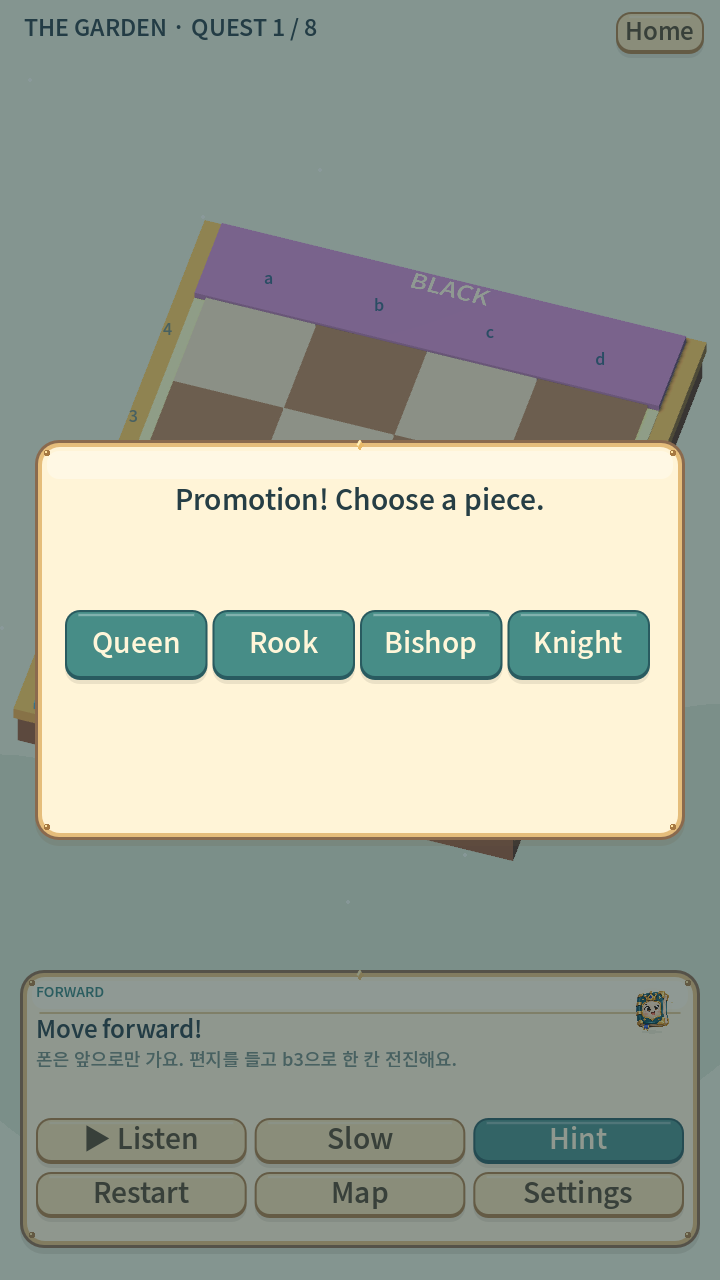
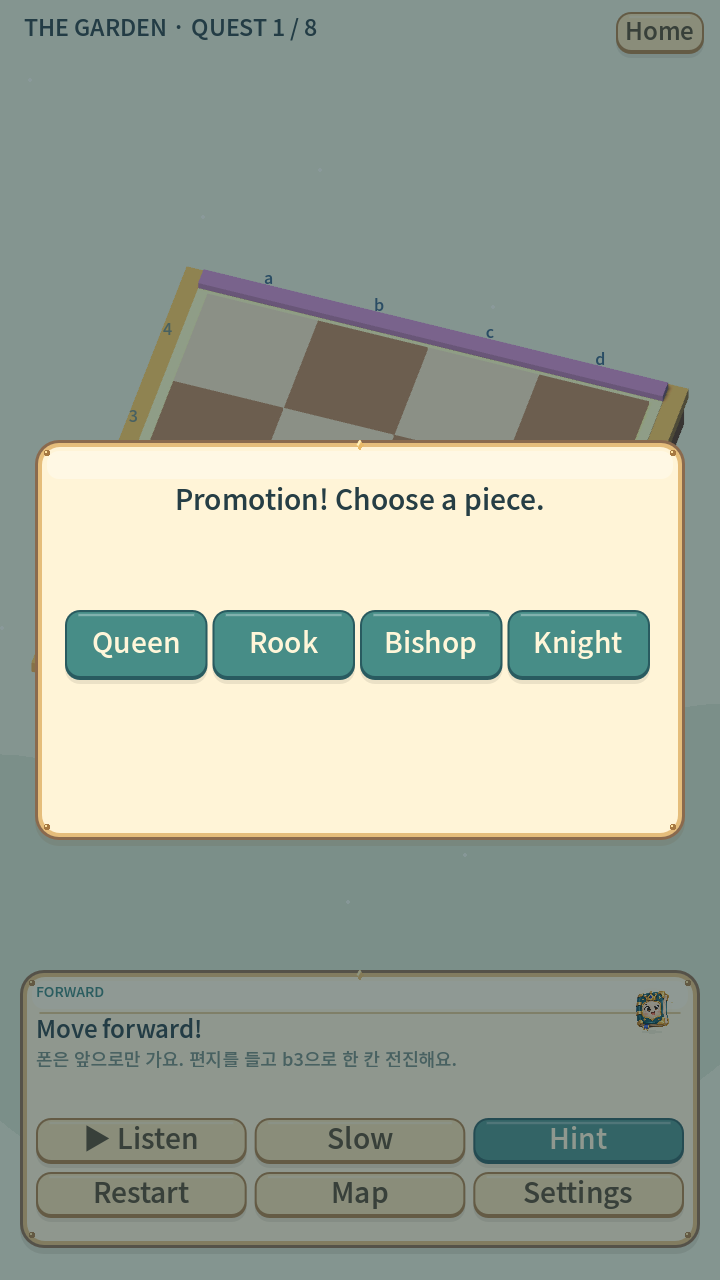
Restore original board dimensions and move team text onto wooden side faces

Changed region(s): [[0.2444, 0.1562, 0.9778, 0.3438], [0.6111, 0.6562, 0.7333, 0.6875], [0.0, 0.5312, 0.0611, 0.5938]]

diff --git a/tools/build_web.py b/tools/build_web.py
@@ -12,7 +12,7 @@ engine=engine[:engine.rfind('export {')]
 html=(d/'index.html').read_text().replace('"serviceWorker":"index.service.worker.js"','"serviceWorker":""')
 html=html.replace('<head>','<head>\n<script src="chess.js"></script>\n<link rel="apple-touch-icon" href="icon-192.png"><meta name="apple-mobile-web-app-capable" content="yes"><meta name="theme-color" content="#367f7b">')
 html=html.replace('</body>','''<script>if('serviceWorker' in navigator)navigator.serviceWorker.register('./sw.js',{updateViaCache:'none'}).then(r=>r.update());</script>
-<a href="guide.html" style="position:fixed;bottom:5px;right:10px;color:#367f7b;font:12px sans-serif">Board lettering · v11.17.11 · Help</a></body>''')
+<a href="guide.html" style="position:fixed;bottom:5px;right:10px;color:#367f7b;font:12px sans-serif">Side lettering · v11.17.12 · Help</a></body>''')
 (d/'index.html').write_text(html)
 manifest={'name':'Chess Quest: The Lost Crown','short_name':'Chess Quest','start_url':'./index.html','scope':'./','id':'./','display':'standalone','orientation':'any','background_color':'#e8efdc','theme_color':'#367f7b','icons':[{'src':f'icon-{s}.png','sizes':f'{s}x{s}','type':'image/png','purpose':'any maskable'} for s in [192,512]]}
 (d/'index.manifest.json').write_text(json.dumps(manifest))

diff --git a/README.md b/README.md
@@ -151,3 +151,7 @@ All modal text is simple English, including story introductions, success, retry,
 ## Printed team names (v11.17.11)
 
 Removed both signs and their mounts. WHITE and BLACK are now depth-tested 3D lettering on the blue and purple board rails, following the board surface. The rails provide space for the lettering outside the coordinates and back-rank characters.
+
+## Original board proportions and side lettering (v11.17.12)
+
+Restored the original plinth and thin colored rails. Team text is no longer on the playing surface: WHITE is printed on the front wooden thickness face, and BLACK on the visible right wooden face toward the opposing half. Both are real depth-tested 3D text on vertical surfaces, without mounts, plaques or a widened frame.
